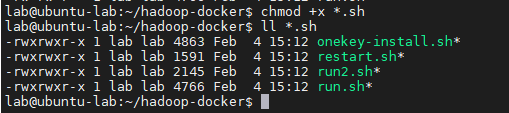
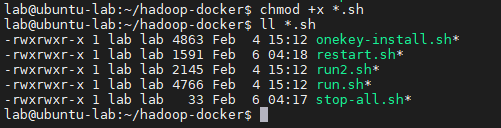
添加stop-all.sh

diff --git a/README.md b/README.md
@@ -78,7 +78,9 @@ chmod +x *.sh
 |                   |                                    | `chmod +x onekey-install.sh`                                 |
 |                   |                                    | `./onekey-install.sh`                                        |
 | restart.sh        | 虚拟机重启之后使用                 | 首先进入hadoop-docker目录                                    |
-|                   |                                    | 然后执行`restart.sh`                                         |
+|                   |                                    | 然后执行`./restart.sh`                                       |
+| stop-all.sh       | 停止所有容器                       | 首先进入hadoop-docker目录                                    |
+|                   |                                    | `./stop-all.sh`                                              |
 
 - 安装 hadoop-docker 实验平台
 
